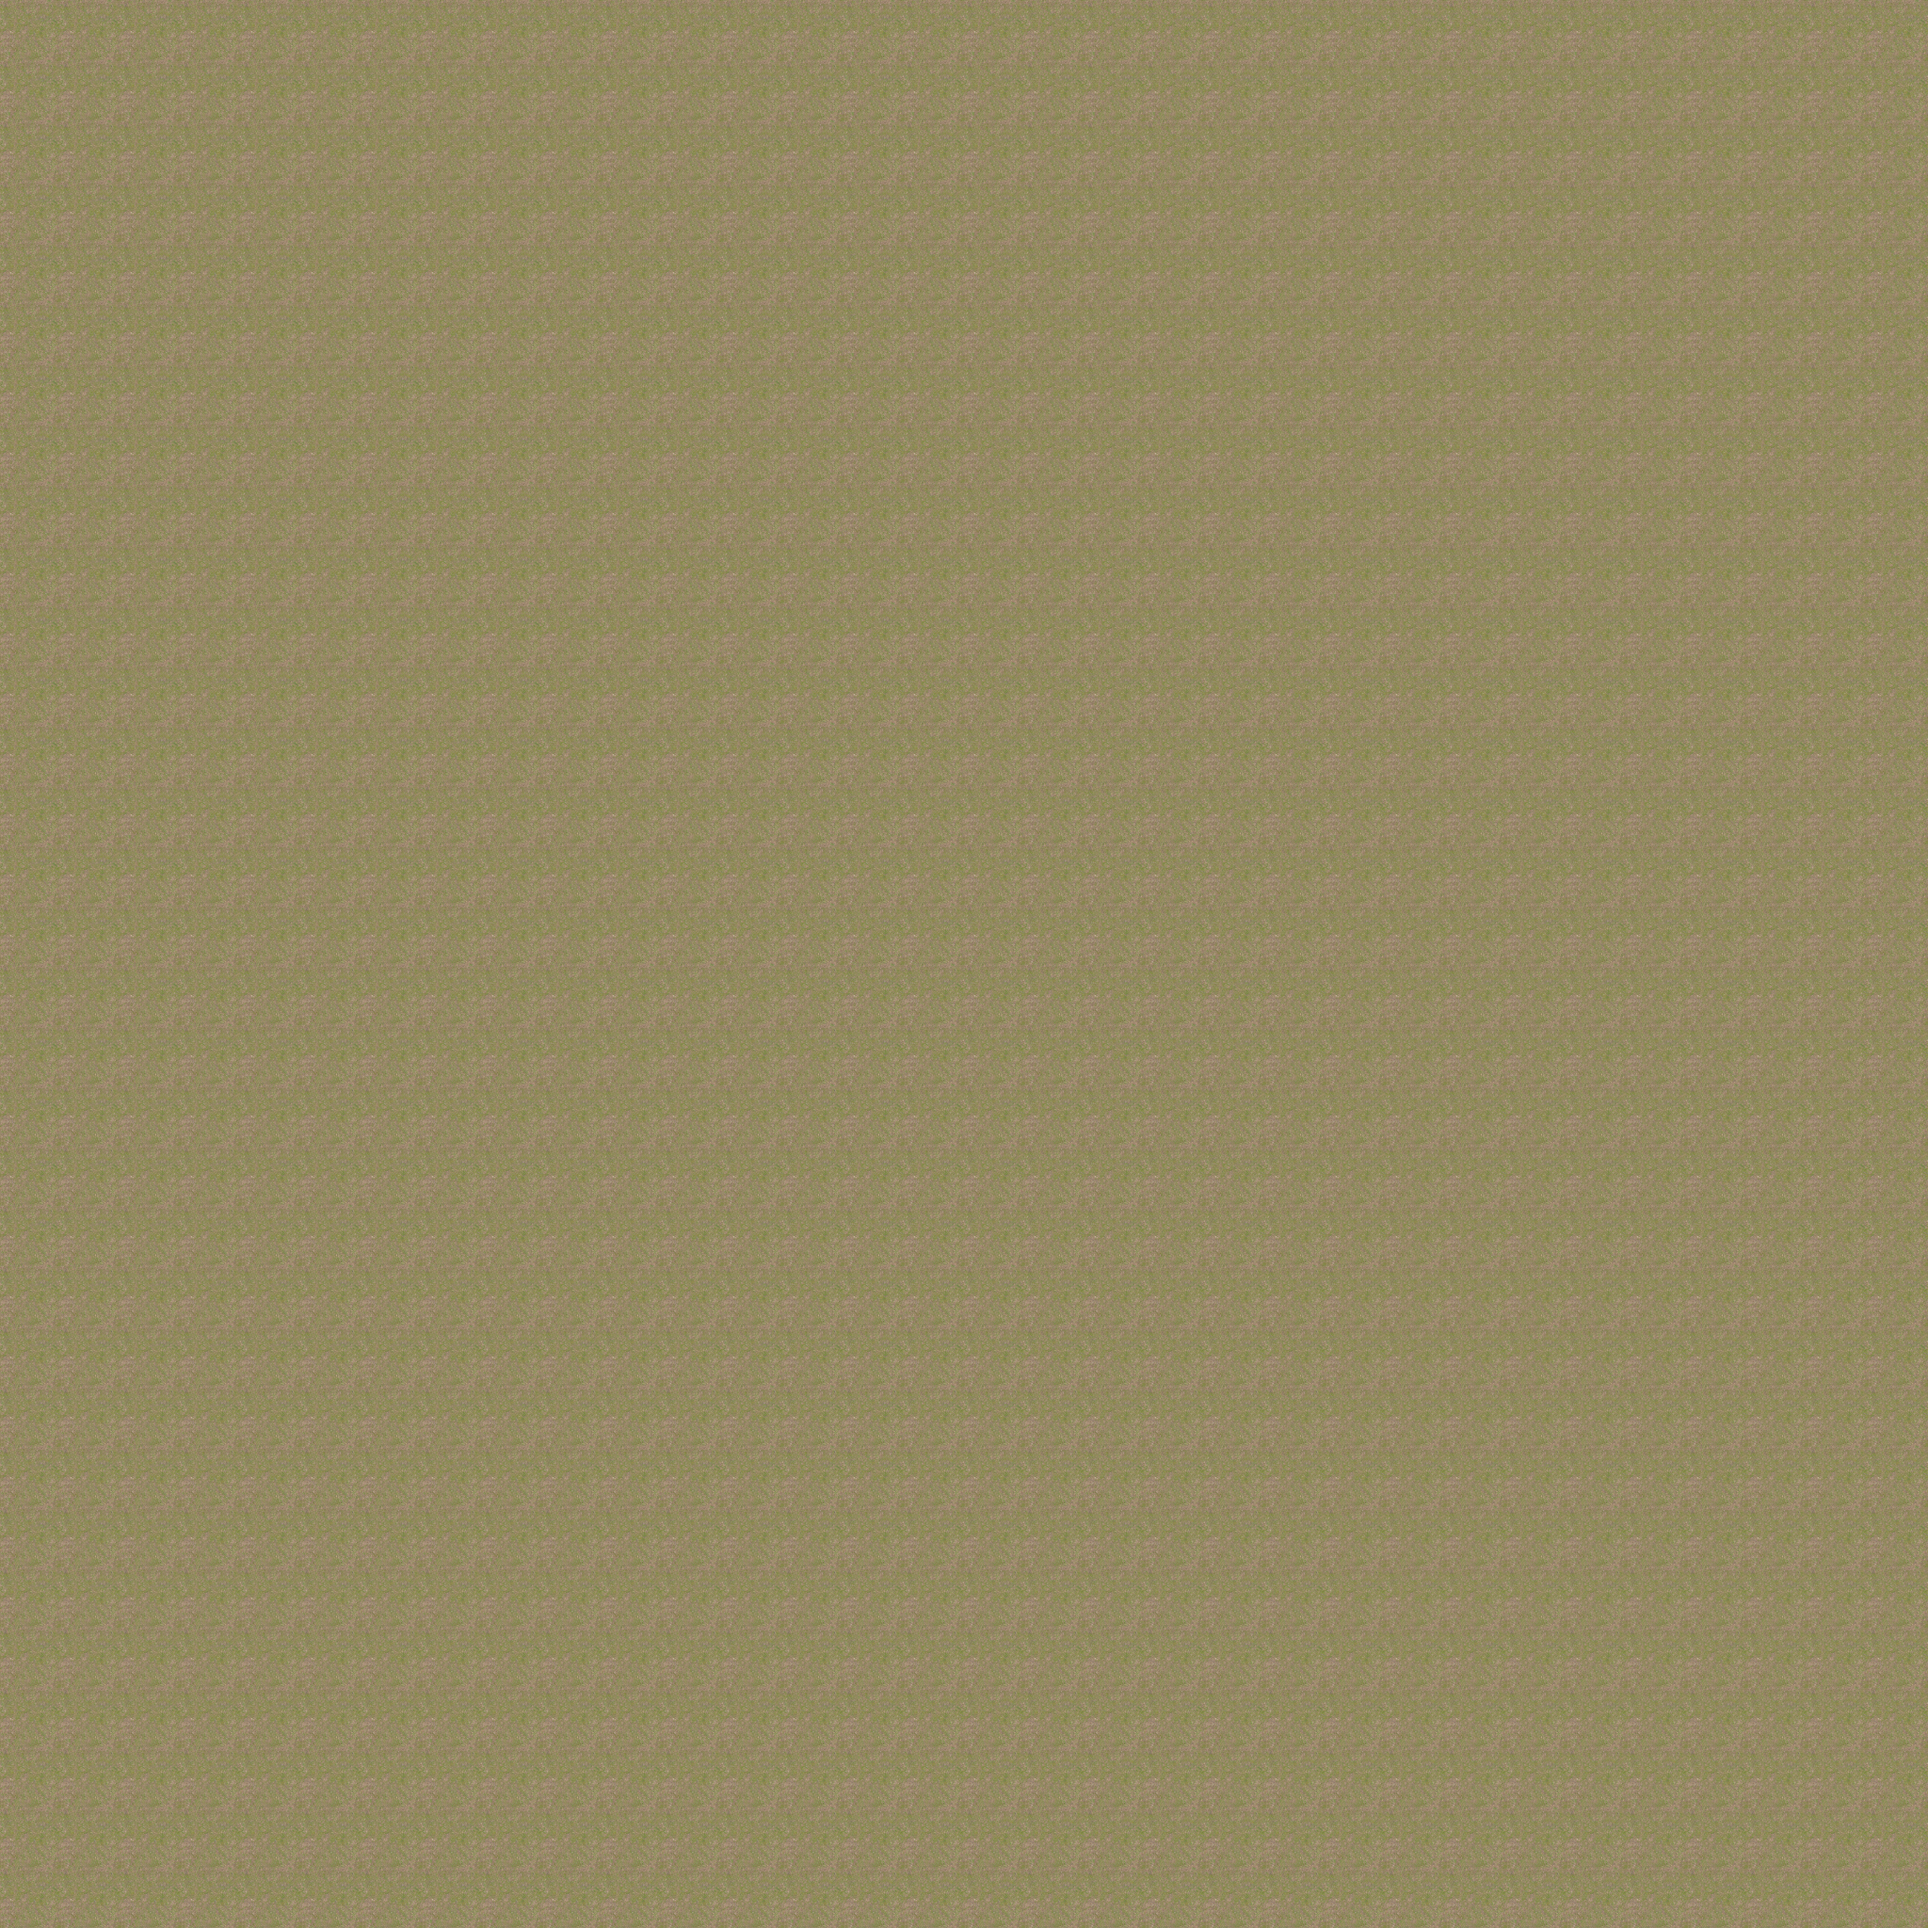
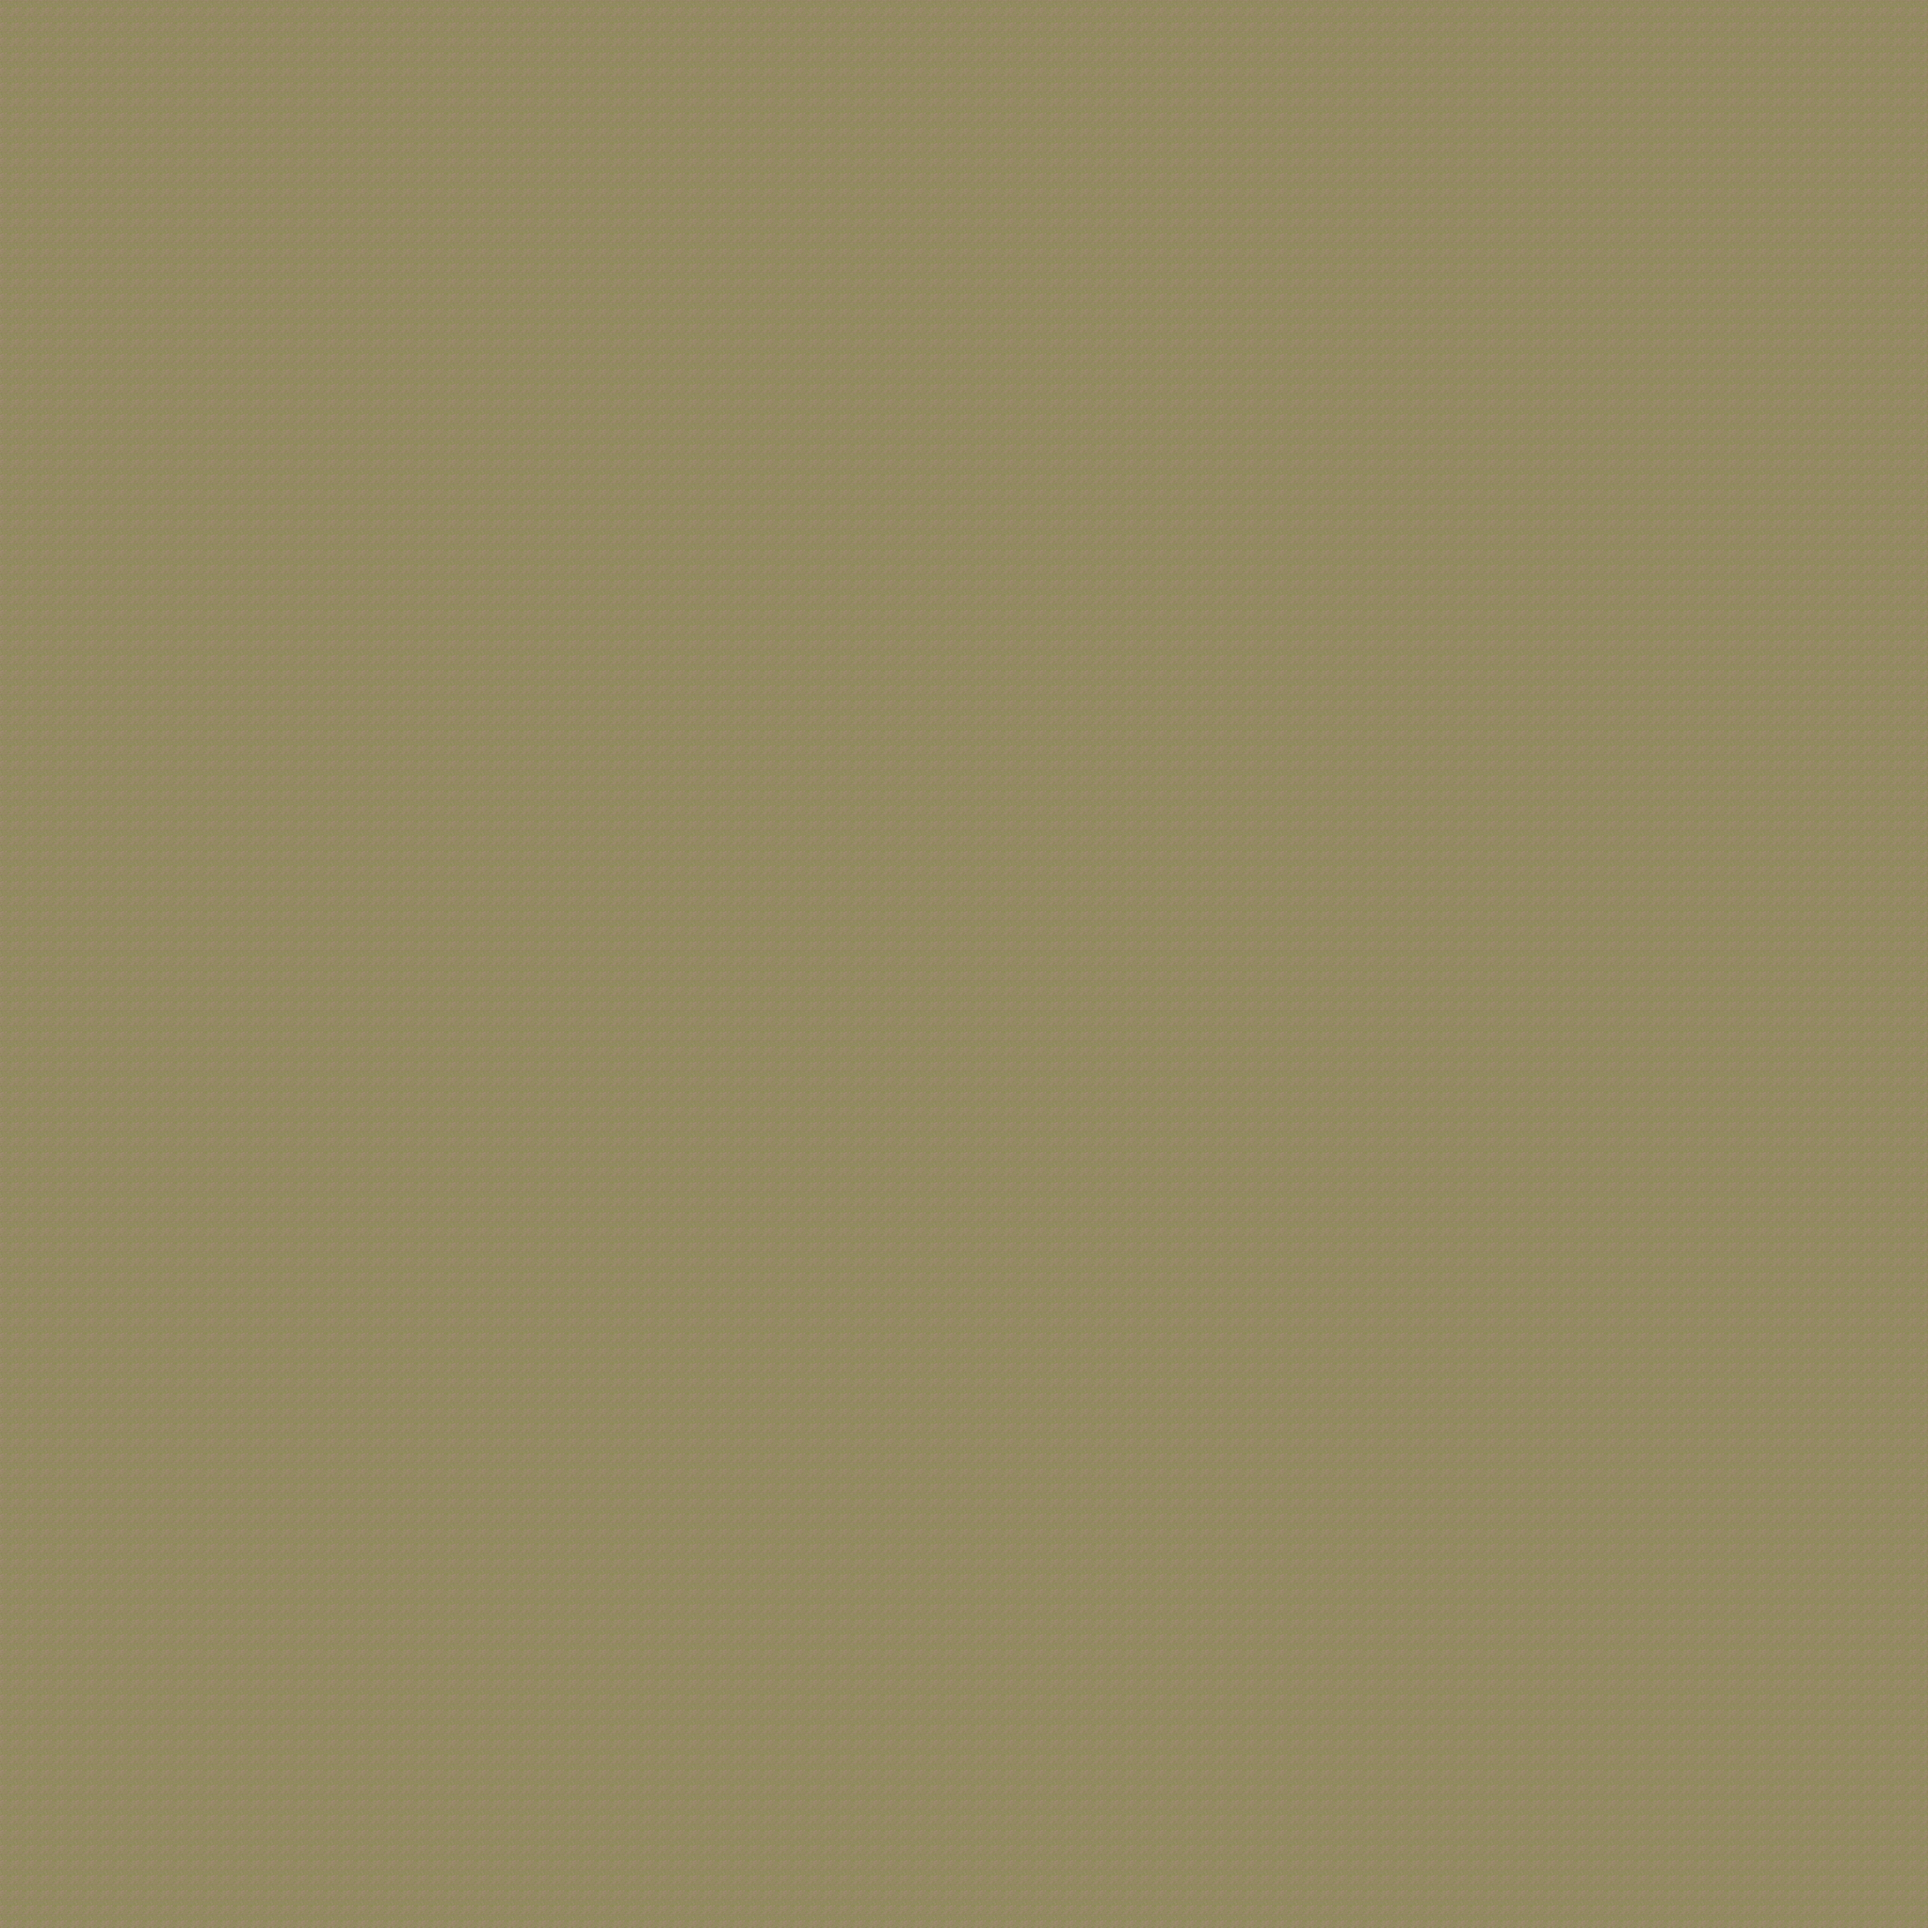
cracks fix

diff --git a/Terrain/Source/Graphics/VulkanTexture.cpp b/Terrain/Source/Graphics/VulkanTexture.cpp
@@ -36,6 +36,7 @@ VulkanTexture::~VulkanTexture()
 void VulkanTexture::loadTextures()
 {
 	std::vector<std::shared_ptr<VulkanBaseBuffer>> stagingBuffers;
+
 	for (uint32_t layer = 0; layer < m_Specification.LayerCount; layer++)
 	{
 		TextureInformation currentInfo{};
@@ -48,12 +49,12 @@ void VulkanTexture::loadTextures()
 		else
 			m_Info = currentInfo;
 
+		m_Info.mipCount = m_Specification.GenerateMips ? VkUtils::calculateNumberOfMips(m_Info.Width, m_Info.Height) : 1;
+
 		if (m_VulkanImage == nullptr)
 		{
 			if (m_Specification.Channles != 0)
 				m_Info.Channels = m_Specification.Channles;
-
-			m_Info.mipCount = m_Specification.GenerateMips ? VkUtils::calculateNumberOfMips(m_Info.Width, m_Info.Height) : 1;
 
 			ImageSpecification imgSpec;
 			imgSpec.Width = m_Info.Width;
@@ -64,7 +65,7 @@ void VulkanTexture::loadTextures()
 			imgSpec.Tiling = VK_IMAGE_TILING_OPTIMAL;
 			imgSpec.Aspect = VK_IMAGE_ASPECT_COLOR_BIT;
 			imgSpec.UsageFlags = VK_IMAGE_USAGE_TRANSFER_DST_BIT | VK_IMAGE_USAGE_SAMPLED_BIT | VK_IMAGE_USAGE_TRANSFER_SRC_BIT;
-			imgSpec.CreateSampler = m_Specification.CreateSampler;
+			imgSpec.CreateSampler = false;
 			imgSpec.LayerCount = m_Specification.LayerCount;
 
 			m_VulkanImage = std::make_shared<VulkanImage>(imgSpec);
@@ -107,6 +108,15 @@ void VulkanTexture::loadTextures()
 		VkUtils::transitionImageLayout(m_VulkanImage->getVkImage(), imgSubresource, VK_IMAGE_LAYOUT_TRANSFER_DST_OPTIMAL, VK_IMAGE_LAYOUT_SHADER_READ_ONLY_OPTIMAL);
 	else
 		this->GenerateMips();
+
+	if (m_Specification.CreateSampler)
+	{
+		SamplerSpecification samplerSpec{};
+		samplerSpec.MaxAnisotropy = m_Specification.MaxAnisotropy;
+		samplerSpec.Mips = m_Info.mipCount;
+
+		m_VulkanSampler = std::make_shared<VulkanSampler>(samplerSpec);
+	}
 }
 
 void VulkanTexture::GenerateMips()
@@ -194,35 +204,4 @@ void VulkanTexture::GenerateMips()
 		1, &barrier);
 
 	VkUtils::endSingleTimeCommand(commandBuffer);
-}
-
-VulkanSampler::VulkanSampler(SamplerSpecification spec)
-{
-	m_Specification = spec;
-	 
-	VkSamplerCreateInfo samplerInfo{};
-	samplerInfo.sType = VK_STRUCTURE_TYPE_SAMPLER_CREATE_INFO;
-	samplerInfo.magFilter = m_Specification.magFilter;
-	samplerInfo.minFilter = m_Specification.minFilter;
-	samplerInfo.addressModeU = m_Specification.addresMode;
-	samplerInfo.addressModeV = m_Specification.addresMode;
-	samplerInfo.addressModeW = m_Specification.addresMode;
-	samplerInfo.mipmapMode = VK_SAMPLER_MIPMAP_MODE_LINEAR;
-	samplerInfo.anisotropyEnable = VK_FALSE;
-	samplerInfo.borderColor = VK_BORDER_COLOR_INT_OPAQUE_BLACK;
-	samplerInfo.unnormalizedCoordinates = VK_FALSE;
-	samplerInfo.compareEnable = VK_FALSE;
-	samplerInfo.compareOp = VK_COMPARE_OP_ALWAYS;
-	samplerInfo.mipmapMode = VK_SAMPLER_MIPMAP_MODE_LINEAR;
-	samplerInfo.mipLodBias = 0.0f;
-	samplerInfo.maxLod = float(m_Specification.Mips - 1);
-	samplerInfo.minLod = 0.0f;
-
-	if (vkCreateSampler(VulkanDevice::getVulkanDevice(), &samplerInfo, nullptr, &m_Sampler) != VK_SUCCESS)
-		assert(false);
-}
-
-VulkanSampler::~VulkanSampler()
-{
-	vkDestroySampler(VulkanDevice::getVulkanDevice(), m_Sampler, nullptr);
 }

diff --git a/Terrain/Source/Graphics/VulkanImage.cpp b/Terrain/Source/Graphics/VulkanImage.cpp
@@ -174,6 +174,11 @@ void VulkanImage::createSampler()
 	VulkanDevice* device = VulkanDevice::getVulkanContext();
 
 	samplerInfo.anisotropyEnable = VK_FALSE;
+	if (m_Specification.MaxAnisotropy != 0.0f)
+	{
+		samplerInfo.anisotropyEnable = VK_TRUE;
+		samplerInfo.maxAnisotropy = m_Specification.MaxAnisotropy;
+	}
 	samplerInfo.borderColor = VK_BORDER_COLOR_INT_OPAQUE_BLACK;
 	samplerInfo.unnormalizedCoordinates = VK_FALSE;
 	samplerInfo.compareEnable = VK_FALSE;
@@ -244,4 +249,44 @@ VulkanImageView::~VulkanImageView()
 	if (m_ImageView != VK_NULL_HANDLE)
 		vkDestroyImageView(VulkanDevice::getVulkanDevice(), m_ImageView, nullptr);
 }
+
+
+VulkanSampler::VulkanSampler(SamplerSpecification spec)
+{
+	m_Specification = spec;
+
+	VkSamplerCreateInfo samplerInfo{};
+	samplerInfo.sType = VK_STRUCTURE_TYPE_SAMPLER_CREATE_INFO;
+	samplerInfo.magFilter = m_Specification.magFilter;
+	samplerInfo.minFilter = m_Specification.minFilter;
+	samplerInfo.addressModeU = m_Specification.addresMode;
+	samplerInfo.addressModeV = m_Specification.addresMode;
+	samplerInfo.addressModeW = m_Specification.addresMode;
+	samplerInfo.mipmapMode = VK_SAMPLER_MIPMAP_MODE_LINEAR;
+
+	samplerInfo.anisotropyEnable = VK_FALSE;
+	if (m_Specification.MaxAnisotropy != 0.0f)
+	{
+		samplerInfo.anisotropyEnable = VK_TRUE;
+		samplerInfo.maxAnisotropy = m_Specification.MaxAnisotropy;
+	}
+
+	samplerInfo.borderColor = VK_BORDER_COLOR_INT_OPAQUE_BLACK;
+	samplerInfo.unnormalizedCoordinates = VK_FALSE;
+	samplerInfo.compareEnable = VK_FALSE;
+	samplerInfo.compareOp = VK_COMPARE_OP_ALWAYS;
+	samplerInfo.mipmapMode = VK_SAMPLER_MIPMAP_MODE_LINEAR;
+	samplerInfo.mipLodBias = 0.0f;
+	samplerInfo.maxLod = float(m_Specification.Mips - 1);
+	samplerInfo.minLod = 0.0f;
+
+	if (vkCreateSampler(VulkanDevice::getVulkanDevice(), &samplerInfo, nullptr, &m_Sampler) != VK_SUCCESS)
+		assert(false);
+}
+
+VulkanSampler::~VulkanSampler()
+{
+	vkDestroySampler(VulkanDevice::getVulkanDevice(), m_Sampler, nullptr);
+}
+
 

diff --git a/Terrain/Source/Graphics/VulkanTexture.h b/Terrain/Source/Graphics/VulkanTexture.h
@@ -23,6 +23,8 @@ struct TextureSpecification
 	uint32_t GenerateMips = false;
 	bool CreateSampler = true;
 
+	float MaxAnisotropy = 0.0f;
+
 	uint32_t LayerCount = 1;
 	std::vector<std::string> Filepath;
 };
@@ -35,7 +37,7 @@ public:
 
 	VkImage getVkImage() { return m_VulkanImage->getVkImage(); }
 	VkImageView getVkImageView() { return m_VulkanImage->getVkImageView(); }
-	VkSampler getVkSampler() { return m_VulkanImage->getVkSampler(); }
+	VkSampler getVkSampler() { return m_VulkanSampler == nullptr ? VK_NULL_HANDLE : m_VulkanSampler->Get(); }
 
 	const TextureInformation& getInfo() { return m_Info; }
 
@@ -45,26 +47,7 @@ private:
 
 private:
 	std::shared_ptr<VulkanImage> m_VulkanImage = nullptr;
+	std::shared_ptr<VulkanSampler> m_VulkanSampler = nullptr;
 	TextureInformation m_Info{};
 	TextureSpecification m_Specification{};
-};
-
-struct SamplerSpecification
-{
-	VkFilter magFilter = VK_FILTER_LINEAR, minFilter = VK_FILTER_LINEAR;
-	VkSamplerAddressMode addresMode = VK_SAMPLER_ADDRESS_MODE_REPEAT;
-	uint32_t Mips = 1;
-};
-
-class VulkanSampler
-{
-public:
-	VulkanSampler(SamplerSpecification spec);
-	~VulkanSampler();
-
-	VkSampler Get() { return m_Sampler; }
-
-private:
-	VkSampler m_Sampler;
-	SamplerSpecification m_Specification;
 };

diff --git a/Terrain/Source/Graphics/VulkanImage.h b/Terrain/Source/Graphics/VulkanImage.h
@@ -12,6 +12,8 @@ struct ImageSpecification
 	uint32_t Mips = 1;
 	uint32_t LayerCount = 1;
 
+	float MaxAnisotropy = 0.0f;
+
 	VkFormat Format = VK_FORMAT_UNDEFINED;
 	VkImageTiling Tiling = VK_IMAGE_TILING_OPTIMAL;
 	VkImageUsageFlags UsageFlags;
@@ -77,4 +79,26 @@ public:
 private:
 	ImageViewSpecification m_Specification;
 	VkImageView m_ImageView = VK_NULL_HANDLE;
+};
+
+struct SamplerSpecification
+{
+	VkFilter magFilter = VK_FILTER_LINEAR, minFilter = VK_FILTER_LINEAR;
+	VkSamplerAddressMode addresMode = VK_SAMPLER_ADDRESS_MODE_REPEAT;
+	uint32_t Mips = 1;
+
+	float MaxAnisotropy = 0.0f;
+};
+
+class VulkanSampler
+{
+public:
+	VulkanSampler(SamplerSpecification spec);
+	~VulkanSampler();
+
+	VkSampler Get() { return m_Sampler; }
+
+private:
+	VkSampler m_Sampler;
+	SamplerSpecification m_Specification;
 };

diff --git a/Terrain/Source/VulkanApp.cpp b/Terrain/Source/VulkanApp.cpp
@@ -78,6 +78,7 @@ void VulkanApp::onCreate()
 			TextureSpecification texSpec{};
 			texSpec.CreateSampler = true;
 			texSpec.GenerateMips = true;
+			texSpec.MaxAnisotropy = 16.0f;
 			texSpec.Channles = 4;
 			texSpec.LayerCount = filepaths.size();
 			texSpec.Filepath = filepaths;
